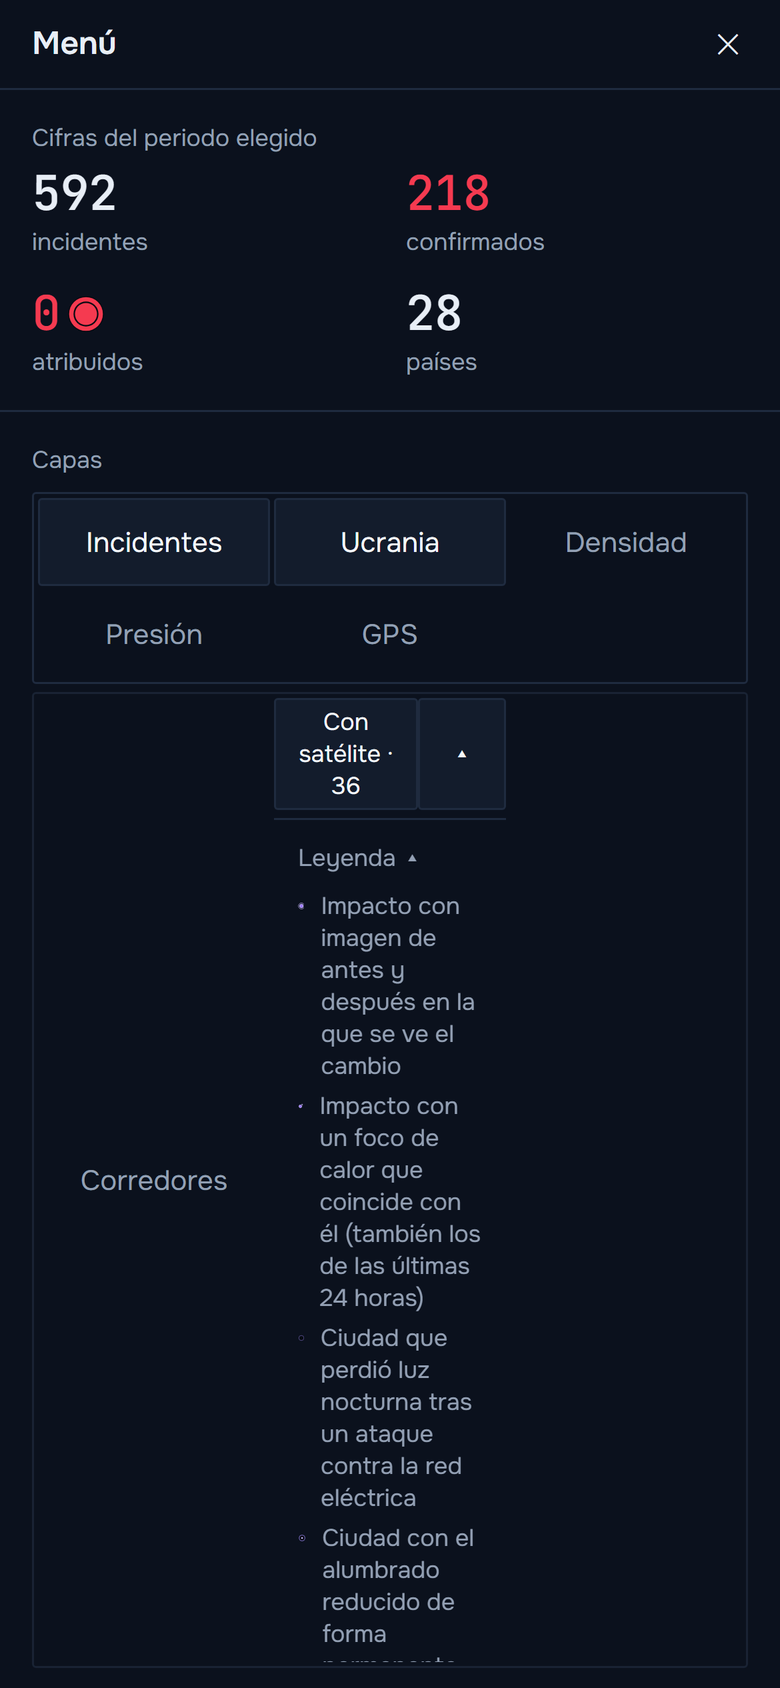
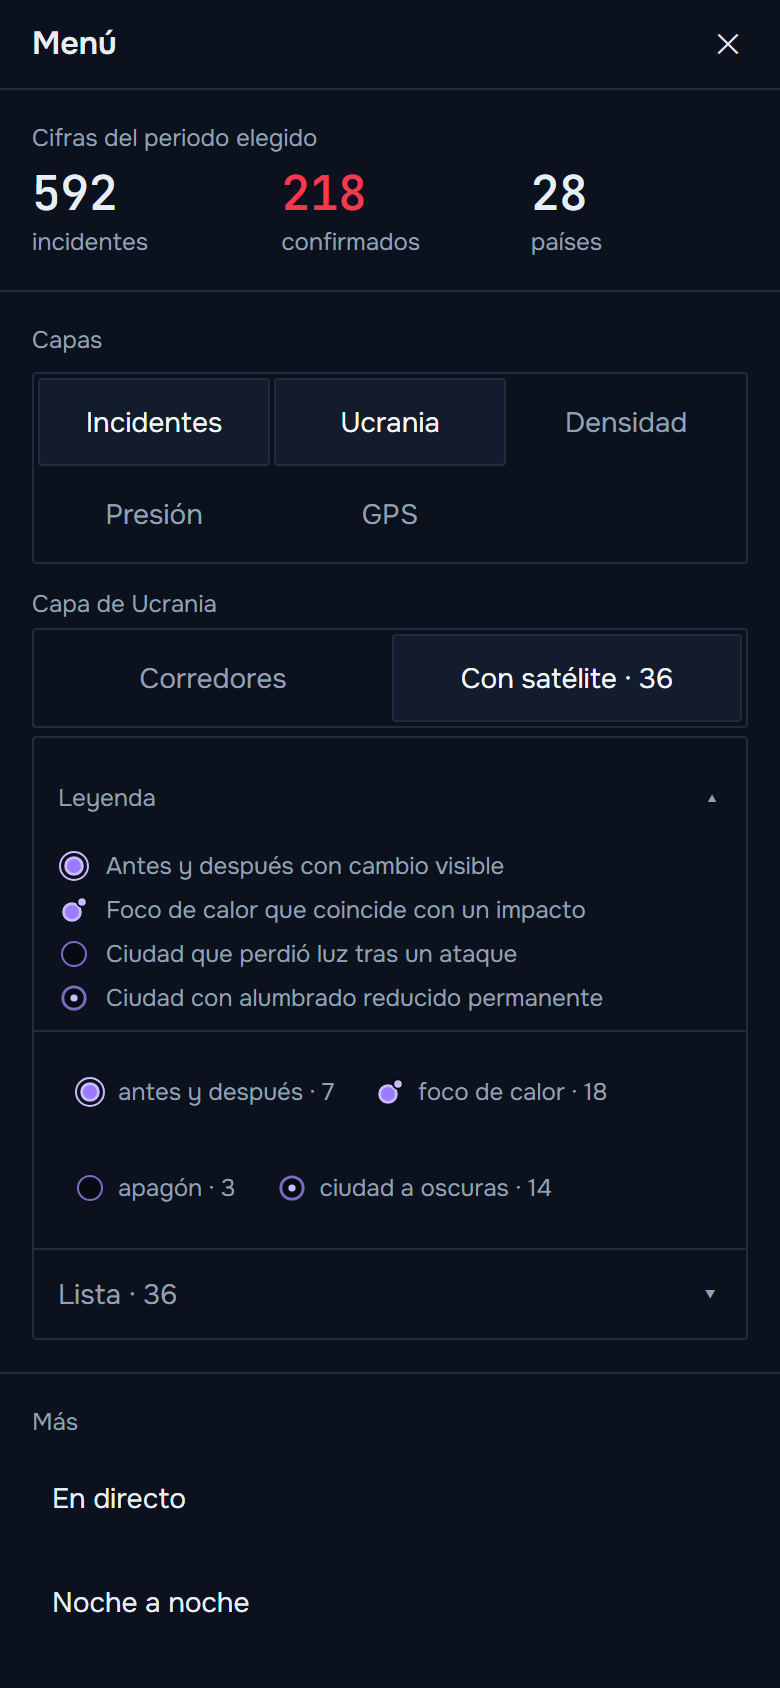
Capturas del menú con «Con satélite» ordenado (#116)
Sustituye la captura rota del menú (subcapas-satelite-lista) por las de 360×800, 390×844,
412×915 y escritorio en producción con #115, y el informe describe el menú nuevo y la cifra
de atribuidos. La prueba de escritorio espera a la flecha del desplegable antes de abrirlo.

diff --git a/web/e2e/menu-satelite.spec.ts b/web/e2e/menu-satelite.spec.ts
@@ -115,9 +115,11 @@ test("escritorio: el desplegable de «Con satélite» con su leyenda a todo el a
   const grupo = page.locator("[data-capas-guerra]");
   await expect(grupo.getByRole("button", { name: "Corredores", exact: true })).toBeVisible();
   const desplegable = page.locator("[data-con-satelite] [data-panel-satelite]");
-  if (!(await desplegable.isVisible())) {
-    await page.getByRole("button", { name: /Abrir la lista/ }).click();
-  }
+  // El enlace enciende «Con satélite»; su flecha abre el desplegable.
+  const flecha = page.locator("[data-con-satelite] button[aria-expanded]");
+  await expect(flecha).toBeVisible();
+  if ((await flecha.getAttribute("aria-expanded")) !== "true") await flecha.click();
+  await expect(desplegable).toBeVisible();
   await desplegable.getByRole("button", { name: /^Leyenda/ }).click();
   const leyenda = desplegable.locator("[data-leyenda-satelite]");
   await expect(leyenda).toBeVisible();

diff --git a/docs/informe_guerra_satelite.md b/docs/informe_guerra_satelite.md
@@ -455,6 +455,17 @@ cerrojo de la recogida ni toca el clon. Consumo medido el 4 de octubre de 2026:
   satélite», **apagados**: se encienden y se apagan con su botón (el estilo de encendido es el del
   resto de botones de la web) y se mantienen mientras se navega y entre fichas; al apagar la capa
   de Ucrania se apagan también. Con la capa encendida se ven solo regiones e impactos.
+- **Menú del teléfono (#115).** Bajo las capas, con Ucrania activa, el rótulo «Capa de Ucrania»
+  y una fila propia con «Corredores» y «Con satélite · N», del mismo tamaño y estilo que los
+  botones de capas y en una línea. Debajo, a todo el ancho del menú: la leyenda de los cuatro
+  tipos (plegada al empezar, el signo a la izquierda y un texto corto: «Antes y después con cambio
+  visible», «Foco de calor que coincide con un impacto», «Ciudad que perdió luz tras un ataque»,
+  «Ciudad con alumbrado reducido permanente»), el filtro por tipo y «Lista · N», que abre la
+  lista. En escritorio, lo mismo en el desplegable de la flecha. Las pruebas de navegador
+  (`web/e2e/menu-satelite.spec.ts`) fallan si la leyenda ocupa menos del 80 % del ancho del menú
+  o si algún botón ocupa más de una línea, en 360, 390, 412 y escritorio.
+- **Cifras.** Con 0 atribuidos, esa cifra no se muestra (ni el número ni su círculo), en la
+  cabecera ni en el menú; las otras tres se reparten el sitio.
 - **Botones retirados.** «Focos 24 h» (pintaba todos los focos del día, casi todos sin relación
   con un ataque) y «Luz nocturna» (casi siempre muy pocos puntos): lo útil de los dos está en «Con
   satélite». La medida de luz y la recogida de focos del servidor siguen igual.
@@ -541,7 +552,8 @@ color de estado.
 En [`capturas/`](capturas/), cada una en `-escritorio.png` y `-390x844.png`:
 
 - Subcapas: `subcapas-inicial` (Ucrania encendida, subcapas apagadas), `subcapas-corredores`,
-  `subcapas-satelite`, `subcapas-satelite-lista` y `subcapas-enlace-corredores`.
+  `subcapas-satelite`, `subcapas-satelite-lista` (el menú con la leyenda desplegada, también en
+  `-360x800` y `-412x915`) y `subcapas-enlace-corredores`.
 - Cortinilla con su contorno: `satelite-cortinilla-<impacto>` de las siete parejas, y
   `satelite-filtro-antes-despues` (la lista filtrada).
 - Fichas sin pareja publicada: `satelite-sin-pareja-EODI-IG-2026-03427`, `-2025-00036` y
